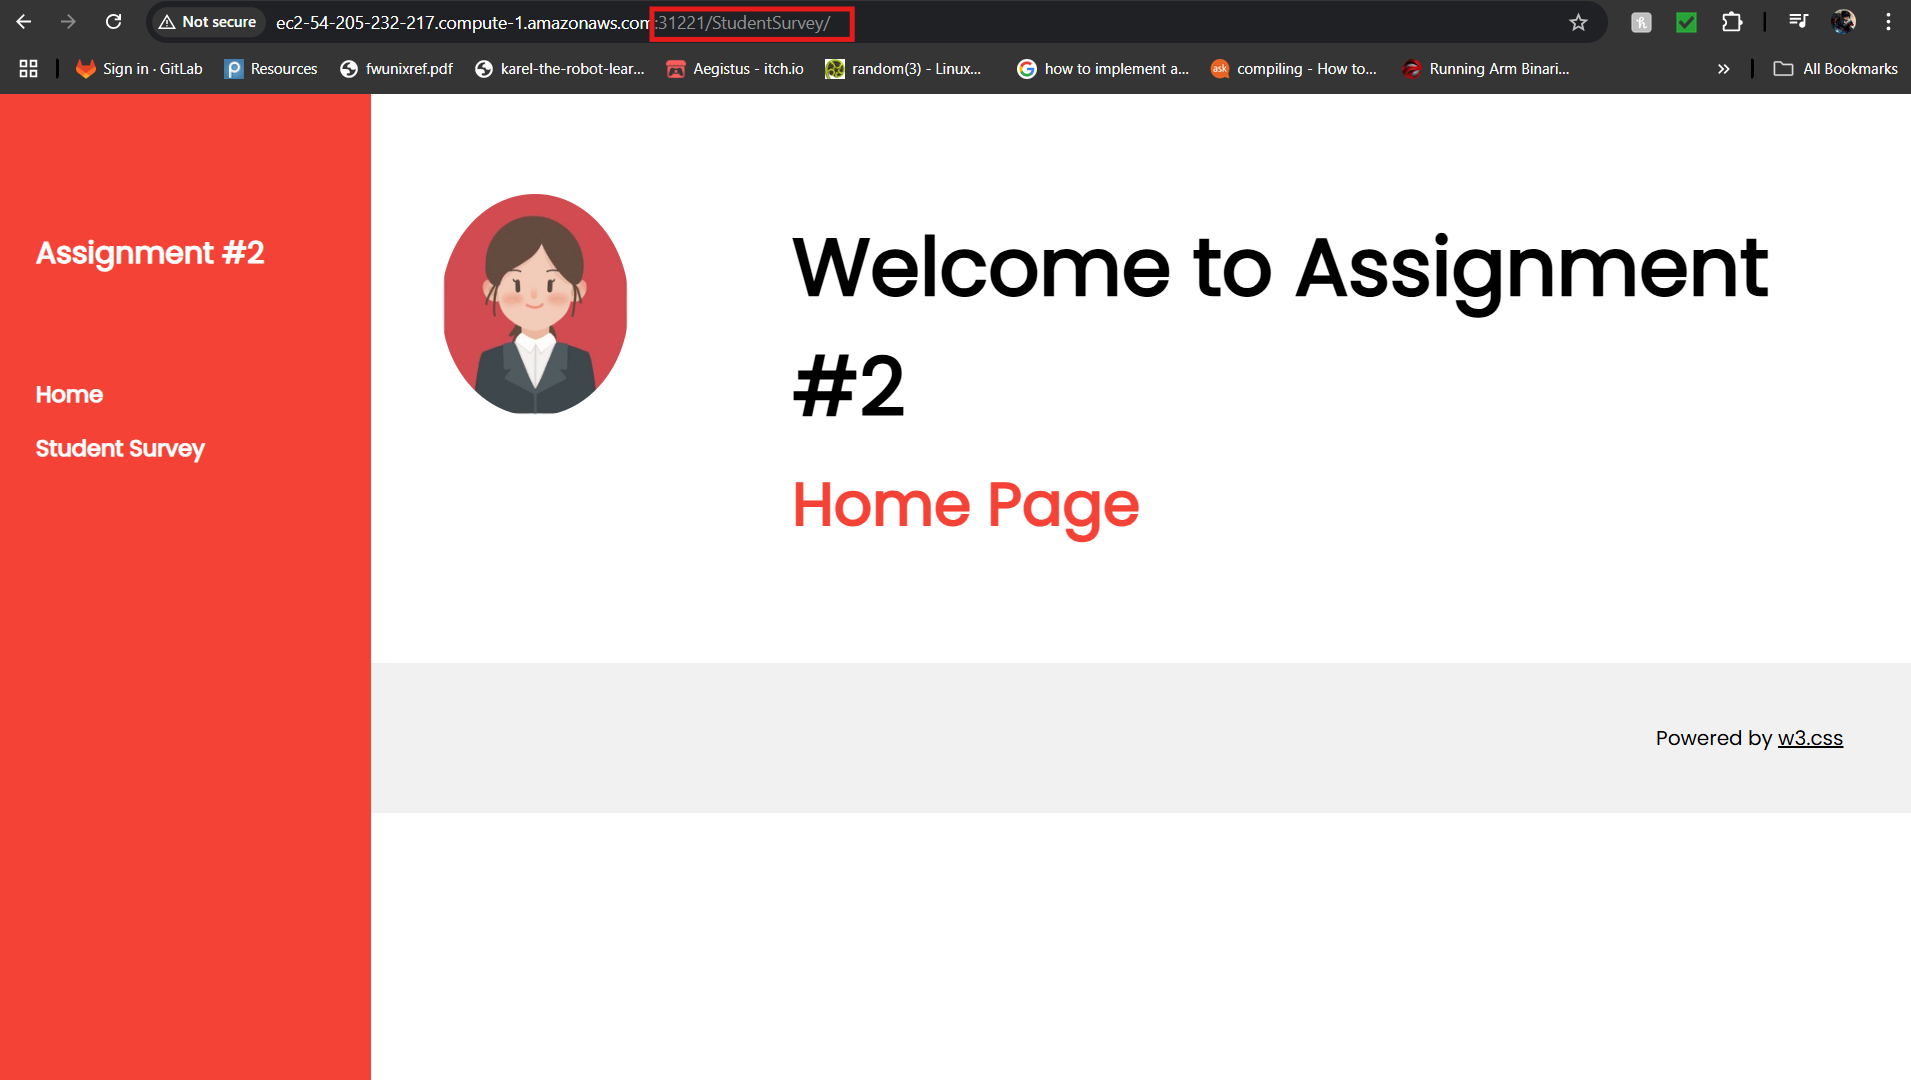
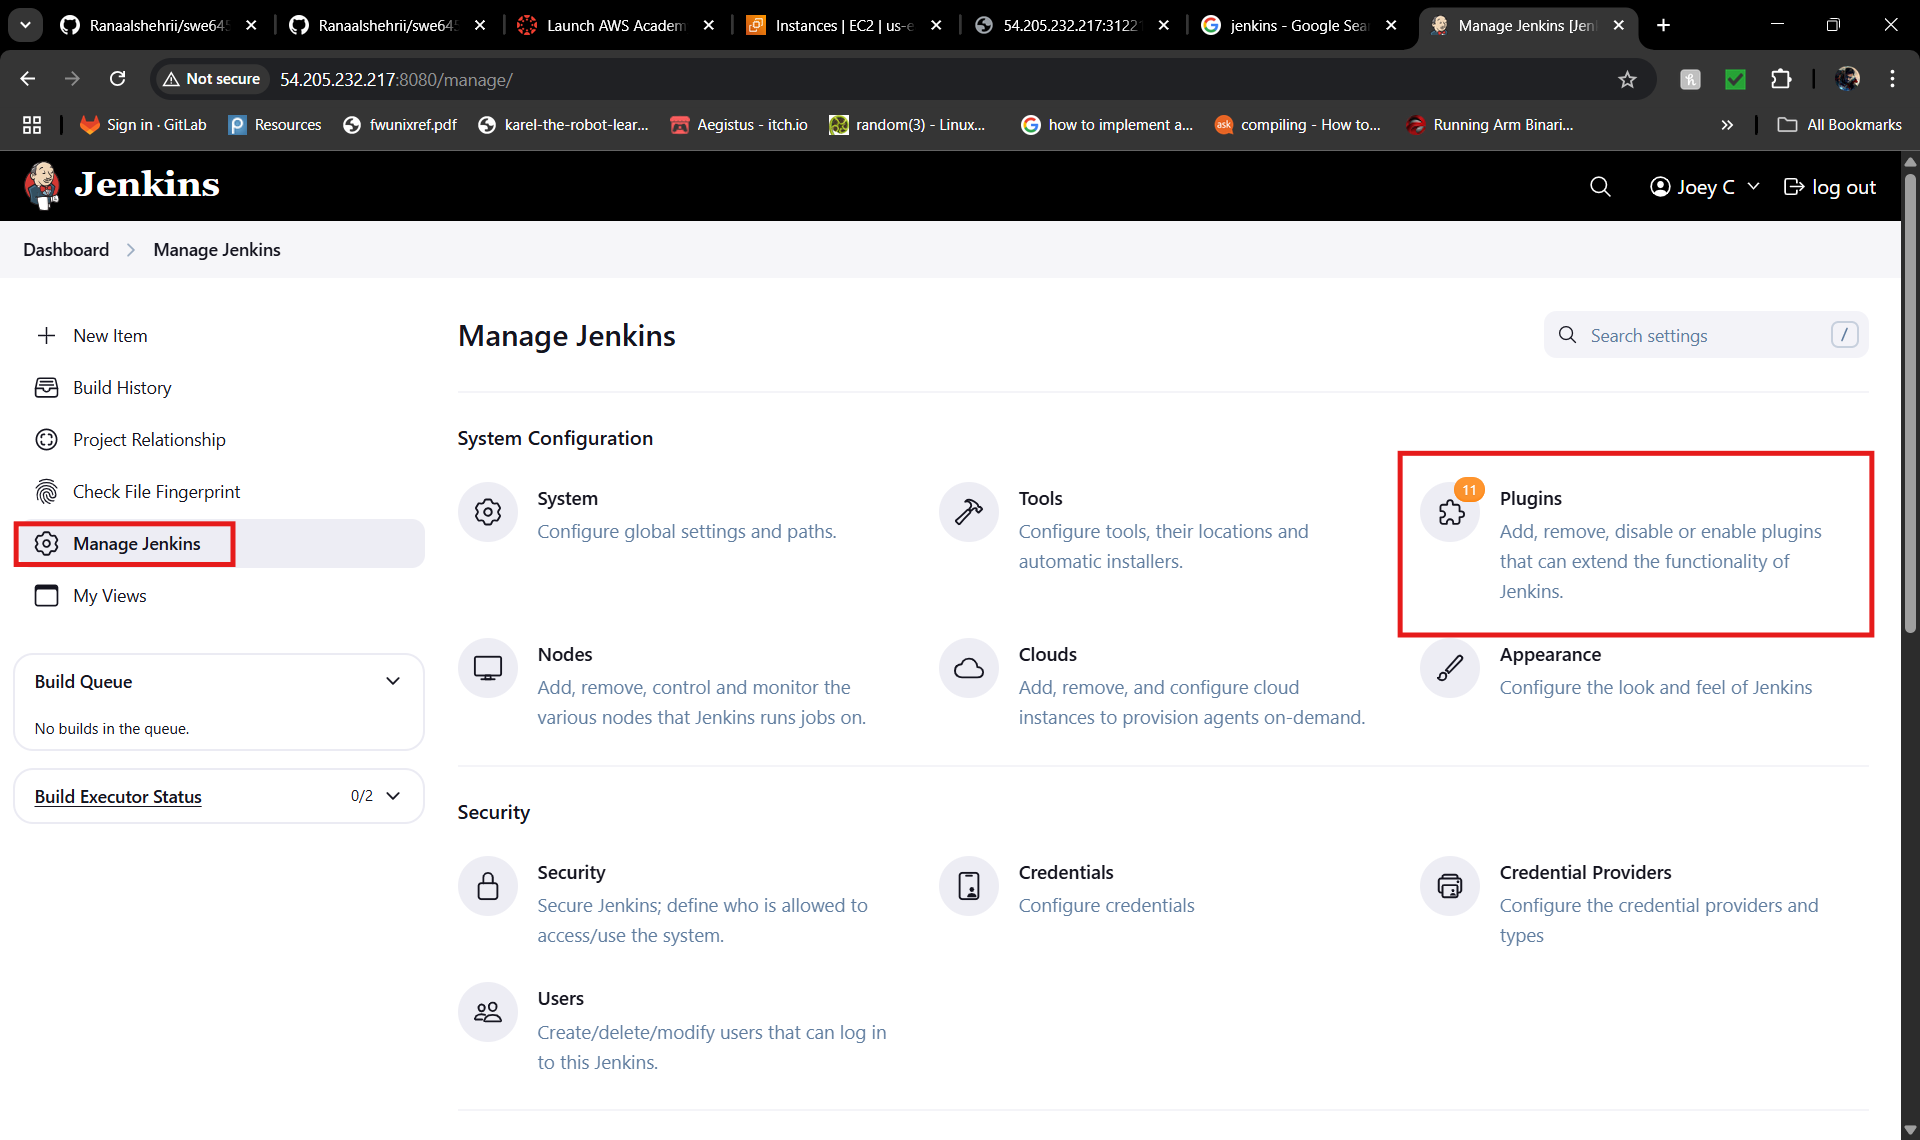
Update README

diff --git a/README.md b/README.md
@@ -1,6 +1,6 @@
-# SWE645 HW3 - EC2 Instance Setup and Kubernetes Cluster Deployment using Rancher with Jenkins CI/CD Pipeline
+# SWE645 HW3 - Docker setup, EC2 Instance Setup and Kubernetes Cluster Deployment using Rancher with Jenkins CI/CD Pipeline
 
-This repository contains part of the **backend** of the **SWE645 HW3** assignment, which includes YAML files, config files, and images.
+This repository contains part of the **backend** of the **SWE645 HW3** assignment, which includes Dockerfile, Jenkinsfile, YAML files, config files, and images.
 
 YAML Files included for:
 - Cluster
@@ -8,7 +8,7 @@ YAML Files included for:
 - Node Port Service
 - KubeConfig
 
-These YAML Files were not modified manually, they were **auto generated** by following the steps below. YAML Files for the 3 Pods are not included because they could change if a Pod goes down. Machines from HW2 were reused.
+These YAML Files were not modified manually, they were **auto generated** by following the steps below. YAML Files for the 3 Pods are not included because they could change if a Pod goes down. Machines from HW2 were reused, so most of this will be repeat for HW2
 
 ---
 
@@ -16,18 +16,69 @@ These YAML Files were not modified manually, they were **auto generated** by fol
 
 Before beginning this part, please complete part 1 from Kris' branch in this repository. Also have with you:
 
-- **Docker Image Tag**: The same image tag you created in part 1.
+- **DockerHub Account**: To create Docker image
 - **AWS Account**: To create EC 2 instances to run your cluster.
+- **Part 1 project files**
+
+Make sure the following tools are installed:
+- **Git**: Version control
+- **Maven**: To build the application jar file
+- **Docker**: To containerize and run the application
+- **Java**: To run the webserver and for Jenkins
 
 ## Setup Instructions
+### Docker Image
 ### 1. Clone the repository:
 To get started, clone this repository to your local machine:
 ```
-git clone https://github.com/USERNAME/REPOSITORY_NAME.git
-cd REPOSITORY_NAME
+git clone https://github.com/Ranaalshehrii/swe645-hw3.git
+cd swe645-hw3
 ```
 
-### 2. Log into you AWS Account:
+### 2. Build the application
+
+Run the following command to build the jar file. Make sure you are in the directory specified above:
+```shell
+    $ mvn clean package -DskipTests
+```
+
+This will build and generate the jar file under the target/ directory.
+Check that this jar file exist in the target directory before continuing:
+
+- student-survey-0.0.1-SNAPSHOT.jar
+
+
+### 3. Build, run, and push Docker image
+
+Once you have validated the jar file or solved and issues with the build, execute the following command in the same directory as before using the included Dockerfile:
+```shell
+    $ docker build -t ranaalshehri/swe645-hw3-springboot-app-amd64:latest .
+```
+
+You should see the new image pop up on docker desktop.
+
+To test the application locally, you can run the image in a container like so:
+```shell
+    $ docker run -d -p 8080:8080 ranaalshehri/swe645-hw3-springboot-app-amd64
+```
+
+Once up and running, you can test the functionality just like in Kris' branch (Part 1) in a web browser or using Postman.
+
+Push your image to DockerHub like so:
+```shell
+    $ docker login
+```
+Following prompts to sign in, then:
+```shell
+    $ docker push ranaalshehri/swe645-hw3-springboot-app-amd64:latest
+```
+
+If all the test run successfully, you can now setup your EC2 instances and Kubernetes Cluster like in HW2
+
+### **Steps below were reused from HW2, please make sure to use the correct image tag you created or the one we used above** 
+
+### EC2 Instances and Kubernetes Cluster Deployment
+### 4. Log into you AWS Account:
 Here you have two choices:
 
 - [Personal AWS Acount login](https://aws.amazon.com/console/)
@@ -40,7 +91,7 @@ If your professor gave you an account for AWS Leaner Lab, you can use that to ge
 For this assignment, we will be using AWS Learner Lab.
 
 
-### 3. Create EC2 Instances:
+### 5. Create EC2 Instances:
 For this part, we will be using two(2) EC2 instances. One will setup the cluster, while the other will run the actual cluster.
 
 - Log into AWS Learner Lab
@@ -81,7 +132,7 @@ For this part, we will be using two(2) EC2 instances. One will setup the cluster
 ![alt text](images/pic7.png)
 
 
-### 4. Setup Rancher on one of the instances
+### 6. Setup Rancher on one of the instances
 Once your machines are online, we can connect to the both of them. Your machines are ready when the status check shows '2/2 checks passed' on the EC2 Dashboard.
 
 ![alt text](images/pic8.png)
@@ -146,7 +197,7 @@ Once your machines are online, we can connect to the both of them. Your machines
 
 ![alt text](images/pic16.png)
 
-### 5. Create our cluter:
+### 7. Create our cluter:
 
 - Click on 'create' from the previous image
 
@@ -178,7 +229,7 @@ Once your machines are online, we can connect to the both of them. Your machines
 ```
 - Paste and save in that file. Now with our cluster setup, we can deploy our application with a Deployment.
 
-### 6.Deploy web application using Deployment:
+### 8.Deploy web application using Deployment:
 
 - Back on the Racher Dashboard. Click home, then click your cluster to access your cluster dashboard like below:
 
@@ -194,7 +245,7 @@ Once your machines are online, we can connect to the both of them. Your machines
 
 ![alt text](images/pic24.png)
 
-### 7. Add new security rule and access application
+### 9. Add new security rule and access application
 
 - In order to see our application, we need to add this port number as a new inbound rule to our security group just like we did for ports 80, 8080, 22, and 443. Go back to your AWS Dashboard on the EC2 instance page. Scroll down under Network & Security and click Security Groups.
 
@@ -211,20 +262,188 @@ Once your machines are online, we can connect to the both of them. Your machines
 ![alt text](images/pic27.png)
 
 
-- With this rule added, we can now access our application using the NodePort service we created. Go back to your EC2 instances page. Select the **SECOND** machine, the one that has the actual cluster running on it. Click on the Public IPv4 DNS link to get this page. This is expected.
+- With this rule added, we can now access our application using the NodePort service we created. Go back to your EC2 instances page. Select the **SECOND** machine, the one that has the actual cluster running on it. Get the Public IPv4 address, for us this is "54.205.232.217", and create the following URL: "http://54.205.232.217. 
 
-![alt text](images/pic28.png)
-
-- To access our home page and survey page, we need to add specific parts to the end of this URL. You need to add ":"NodePort Number"/"war file name"/ to get the home page and add ":"NodePort Number"/"war file name"/"survey file name".html/ to get the survey file. In our case, we add "::31221/StudentSurvey/" and ":31221/StudentSurvey/survey.html" to the end of the URL. 
+- To access our application, we need to add specific parts to the end of this URL. You need to add ":"NodePort Number"/"desired endpoint"/ to get the responce from the database you wish. In our case, we add ":31221/survey/save" to save the survey data and ":31221/survey/all" to get all surveys from the database. 
 
 **NOTE: Make sure to change form https to http or the link won't work**
 
-- Home page at [link](http://ec2-54-205-232-217.compute-1.amazonaws.com:31221/StudentSurvey/)
+- Application at [link](http://54.205.232.217:31221/<endpoint>)
+
+- See Kris' Branch from Part 1 for the possible endpoints.
+- Ex. To get all surveys, visit [link](http://54.205.232.217:31221/survey/all)
+
+![alt text](images/pic28.png)
+
+**NOTE: Links will only work in your machines are running. If you are using AWS Learner Lab. machines auto-shutoff after 4hrs.**
+
+
+### Jenkins CI/CD Pipeline
+### 10. Install Jenkins
+
+With the application, machines, and cluster now setup, we can now setup our CI/CD Pipeline to automate:
+- building the application jar file
+- building docker image and pushing the updated image
+- Updating the image on the cluster pods
+
+To start, update system packages on both EC2 instances:
+```shell
+    $ sudo apt update
+    $ sudo apt upgrade -y
+```
+
+Then, on the **SECOND** machine, the one running the cluster and pods, install these packages and validate java:
+```shell
+    $ sudo apt install fontconfig openjdk-17-jre -y
+    $ java -version
+```
+
+Expected output:
+```shell
+    openjdk version "17.0.13" 2024-10-15
+    OpenJDK Runtime Environment (build 17.0.13+11-Debian-2)
+    OpenJDK 64-Bit Server VM (build 17.0.13+11-Debian-2, mixed mode, sharing)
+```
+
+Add the Jenkins Repository and Key:
+```shell
+    sudo wget -O /usr/share/keyrings/jenkins-keyring.asc \
+    https://pkg.jenkins.io/debian-stable/jenkins.io-2023.key
+
+    echo "deb [signed-by=/usr/share/keyrings/jenkins-keyring.asc] \
+    https://pkg.jenkins.io/debian-stable binary/" | sudo tee \
+    /etc/apt/sources.list.d/jenkins.list > /dev/null
+
+    sudo apt-get update
+```
+
+Install Jenkins:
+```shell
+    $ sudo apt install jenkins -y
+```
+
+Start and Enable Jenkids:
+```shell
+    $ sudo systemctl enable jenkins
+    $ sudo systemctl start jenkins
+    $ sudo systemctl status jenkins
+```
+
+### 11. Access Jenkins Dashboard
+Visit Jenkins Dashboard at: [link](http://<EC2-Public-IP>:8080>)
+
+Get the initial admin password using the following command:
+```shell
+    $ sudo cat /var/lib/jenkins/secrets/initialAdminPassword
+```
+
+On the Customize Jenkins page, install suggested plugins
+
+Then create an admin account by filling in the username, password, name, and email you want
+
+### 12. Setup Jenkins Plugins
+
+On the main dashboard page, go to Manage Jenkins and click Plugins
 
 ![alt text](images/pic29.png)
 
-- Survey page at [link](http://ec2-54-205-232-217.compute-1.amazonaws.com:31221/StudentSurvey/survey.html)
+Install the following plugins if they are not already installed:
+- Git plugin
+- Docker Pipeline
+- Kubernetes plugin
+
+### 13. Install Docker and give Jenkins access
+
+Now, we need to allow Jenkins to use docker for docker commands
+
+If docker is not installed on your machine, do so with this:
+```shell
+    $ sudo apt update
+    $ sudo apt install docker.io -y
+    $ sudo apt update
+    $ sudo systemctl start docker
+    $ sudo systemctl enable docker
+```
+Then give Jenkins permission to use docker:
+```shell
+    $ sudo usermod -aG docker jenkins
+```
+
+Check that this worked with:
+```shell
+    $ groups jenkins
+
+    output:
+    jenkins: jenkins docker
+```
+
+Now, reboot this EC2 instance and then reconnect
+
+### 14. Setup Credentials with Jenkins
+
+Now, we need to give Jenkins all credentials needed for it to function, this includes
+- **DockerHub**: To pull new image and push new images
+- **GitHub**: To access source code and detect changes
+- **KubeConfig**: To perform kubectl commands
+
+Go to Manage Jenkins -> Credentials -> click (global) -> Add Credentials
 
 ![alt text](images/pic30.png)
 
-**NOTE: Links will only work in your machines are running. If you are using AWS Learner Lab. machines auto-shutoff after 4hrs.**
+![alt text](images/pic31.png)
+
+![alt text](images/pic32.png)
+
+
+For DockerHub and GitHub Credentials:
+- **Kind**: Username with password
+- **Scope**: Global
+- **Username**: Your username
+- **Password**: Your password
+- **ID**: Tag to use inside Jenkinsfile to reference this credentials information
+- **Description**: Optional field to describe this credential
+
+For KubeConfig file:
+
+Copy your KubeConfig file over from its existing .kube folder to the one jenkins has with the following command
+```shell
+    $ cp /root/.kube/config /var/lib/jenkins/.kube
+```
+
+### 15. Setup Pipeline
+
+Now, we can setup the pipeline
+
+Back on the main dashboard page, click New Item, click Pipeline
+
+![alt text](images/pic33.png)
+
+Click **GitHub Project** and paste the URL:
+
+![alt text](images/pic34.png)
+
+
+Define your pipeline like so:
+- Pipeline script from SCM(Pipeline will get Jenkinsfile script from your SCM):
+  - SCM: Git
+  - Repo URL
+  - Select GitHub Credentials added earlier
+  - Branch: The branch you want Jenkins to build off of
+  - Script Path: Path to Jenkkinsfile in GitHub Repo (Just 'Jenkinsfile' if in top level)
+
+![alt text](images/pic35.png)
+
+Now, go to **Triggers** section to set the pipeline to poll every minute. This means that Jenkins will check every minute for changes and schedule a build if changes are detected.
+
+Click **Poll SCM** -> Enter "* * * * *" (5 stars with 1 space in between each)
+to poll every minute
+
+![alt text](images/pic36.png)
+
+### 16. Build Pipeline
+
+Go to main dashboard, select your pipeline, click build now. Make sure you have a Jenkinsfile like the on included in this respository.
+
+![alt text](images/pic37.png)
+
+
